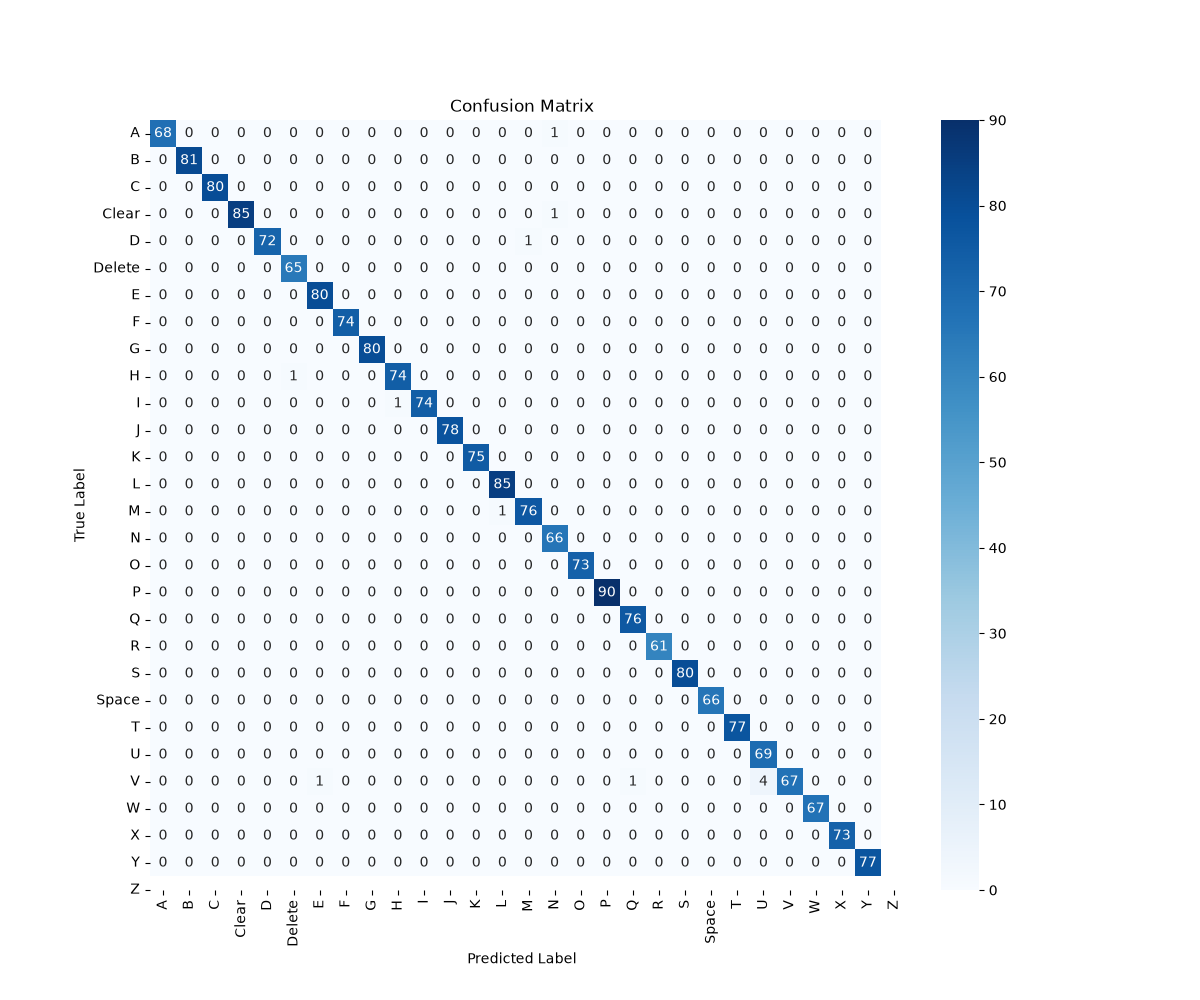
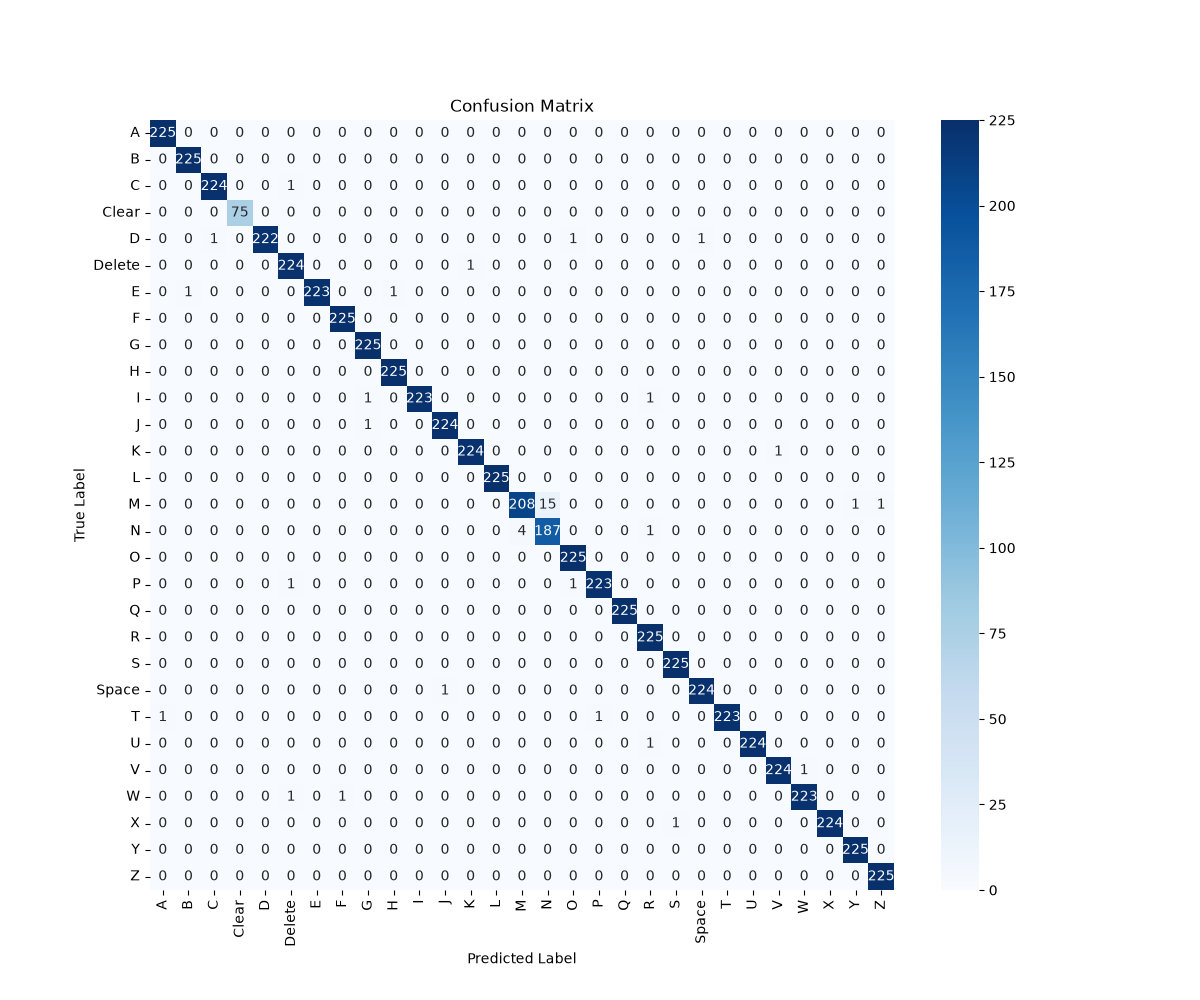
Update model with 42k training samples for extreme robustness

diff --git a/README.md b/README.md
@@ -10,7 +10,7 @@ This project utilizes **Google MediaPipe** for robust 3D hand tracking and a hig
 - **Intelligent Text Generation:** Includes smart debouncing and cooldown algorithms to prevent duplicate letter spamming, ensuring clean sentence construction.
 - **Special Commands:** Built-in gestures for `SPACE`, `DELETE`, and `CLEAR` to give users full control over their sentences.
 - **Text-to-Speech (TTS):** Integrated offline voice synthesis to speak the generated sentences out loud at the click of a button.
-- **High Accuracy Filtering:** Enforces a strict >80% confidence threshold to ignore blurry or uncertain frames.
+- **High Accuracy Filtering:** Enforces a strict >85% confidence threshold to ignore blurry or uncertain frames.
 
 ## 🛠️ Technology Stack
 - **Python 3.12**